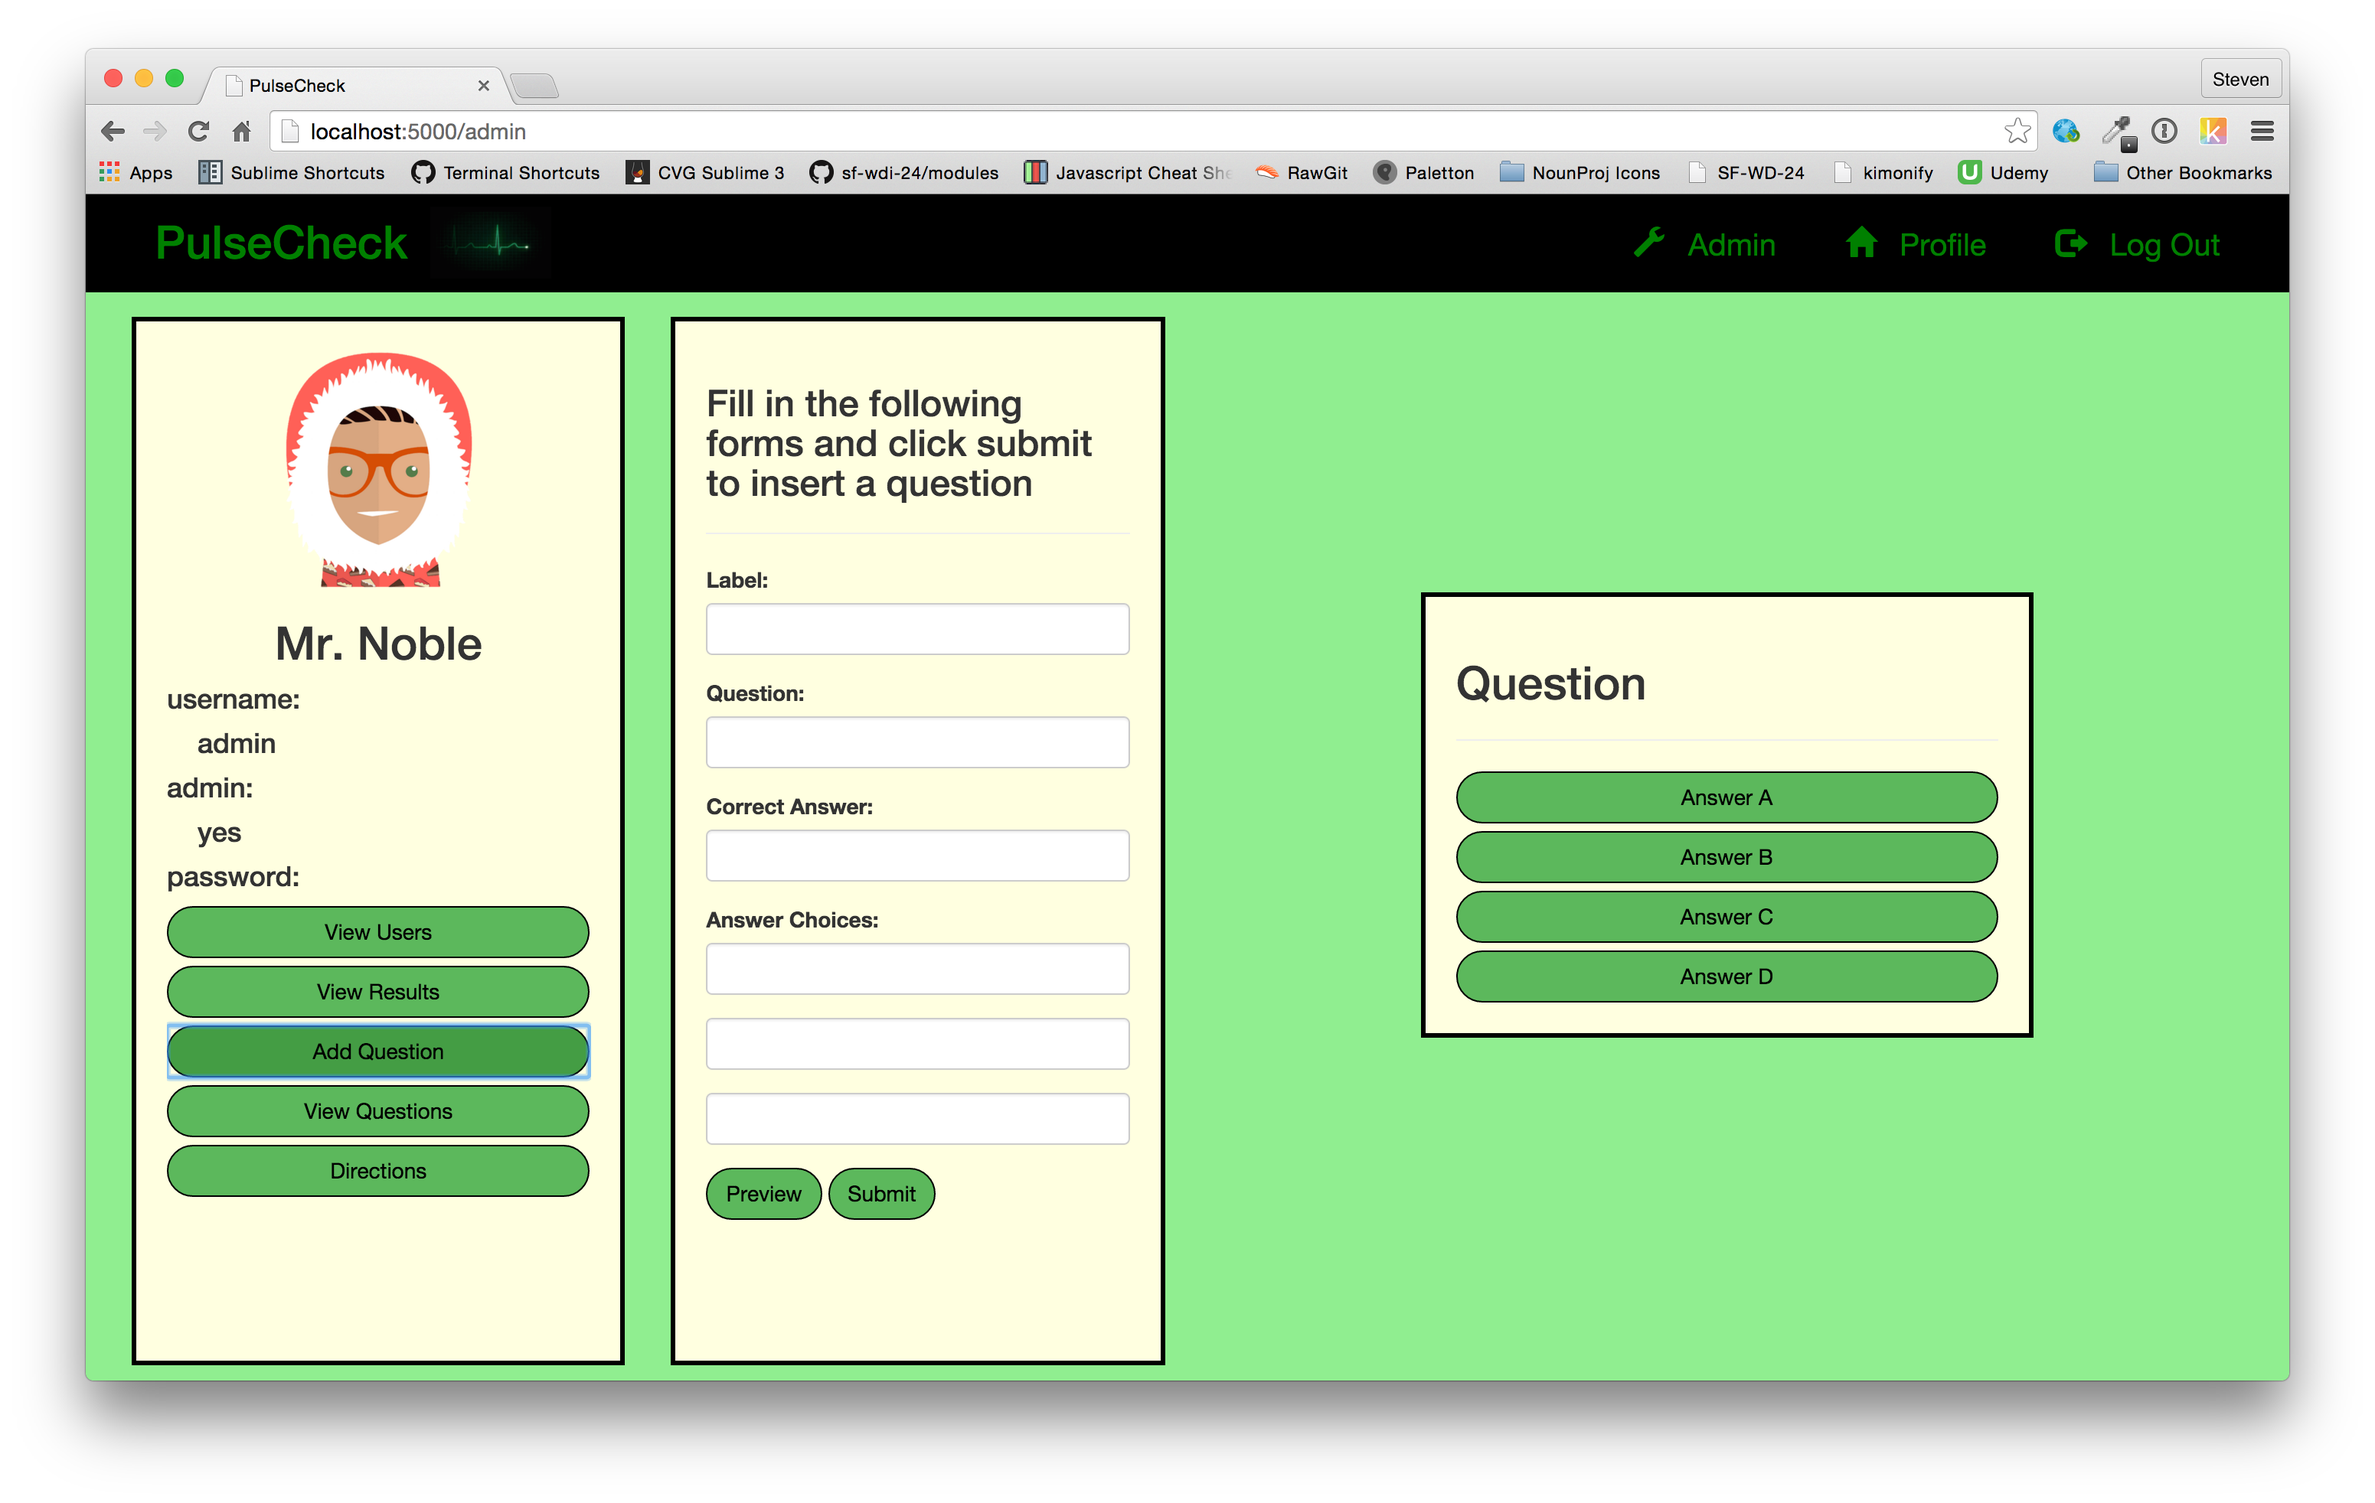
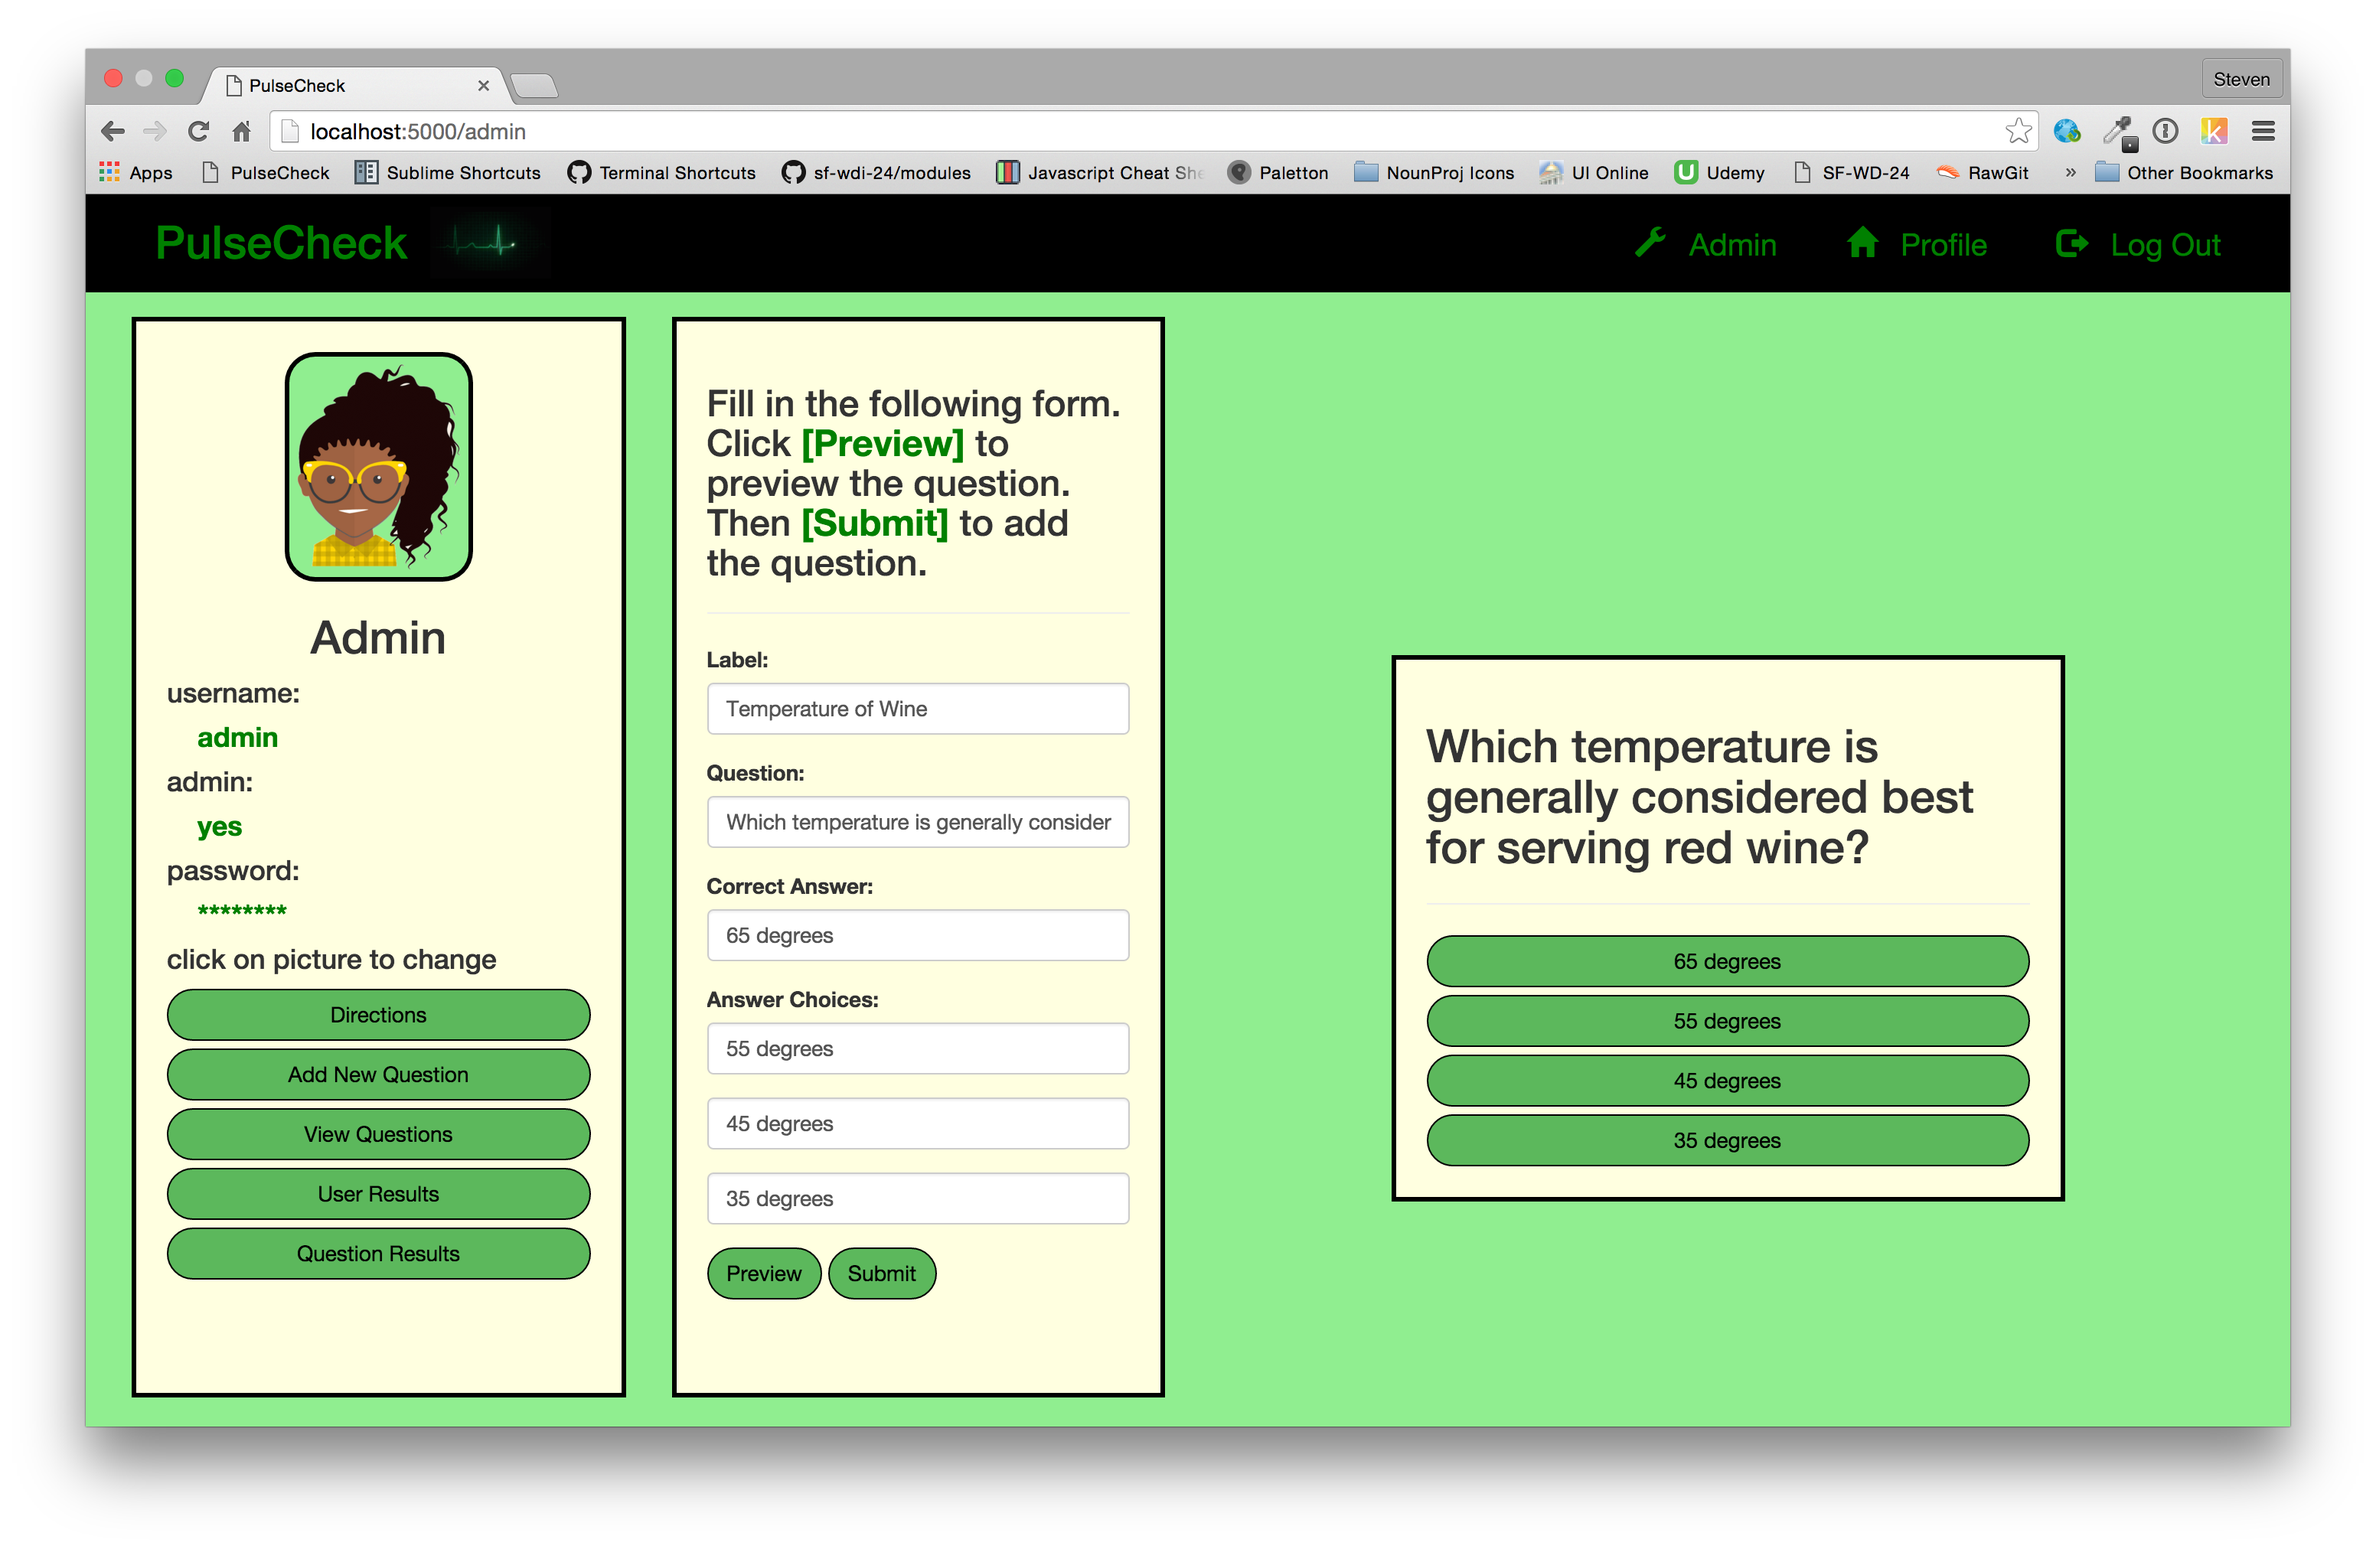
fix charts, update about page

diff --git a/public/scripts/admin.js b/public/scripts/admin.js
@@ -7,6 +7,7 @@ var $avatar = $('.avatar'),
 		$centerBox2 = $('.center-box-2'),
 		$centerBox3 = $('.center-box-3'),
 		$centerBox4 = $('.center-box-4'),
+		$navbar = $('.navbar'),
 		$scroll = $('.scroll'),
 		$window = $(window);
 
@@ -87,10 +88,14 @@ var userListSource = $userListTemplate.html(),
 		userResultsSource = $userResultsTemplate.html(),
 		userResultsTemplate = Handlebars.compile(userResultsSource);
 
+// Chartjs global attributes
+Chart.defaults.global.animationSteps = 60;
+
 // Global variables
 var questionArray = []; // Array for questions to be displayed to students
 var index = 0;
 var ctx;
+var pieChart;
 
 // Add all questions to the questionArray and filter out questions which are not to be shown
 $.get(questionUrl, function(data) {
@@ -113,7 +118,7 @@ $viewUsersBtn.on('click', openUserPane);
 
 // Event handlers for [Add Question]
 $previewQuestionBtn.on('click', previewQuestion);
-$submitQuestionBtn.on('click', submitQuestion);
+$submitQuestionBtn.on('submit', submitQuestion);
 
 // Event handlers for [View Questions]
 $addQuestionListResults.on('click', '.click-to-select', selectQuestion);
@@ -132,16 +137,17 @@ calculateHeight();
 function calculateHeight() {
 	var height = $window.height();
 	var width = $window.width();
+	var navbarHeight = $navbar.height();
 	var boxHeight = $centerBox.height();
 	var boxHeight2 = $centerBox2.height();
 	var boxHeight3 = $centerBox3.height();
 	var boxHeight4 = $centerBox4.height();
-	$box.css('height', height - 90);
+	$box.css('height', height - navbarHeight - 36);
 	$scroll.css('height', height - 130);
-	$centerBox.css('margin-top', ((height - boxHeight - 150) / 2));	
-	$centerBox2.css('margin-top', ((height - boxHeight2 - 150) / 2));	
-	$centerBox3.css('margin-top', ((height - boxHeight3 - 150) / 2));	
-	$centerBox4.css('margin-top', ((height - boxHeight4 - 150) / 2));	
+	$centerBox.css('margin-top', ((height - boxHeight - navbarHeight - 36) / 2));	
+	$centerBox2.css('margin-top', ((height - boxHeight2 - navbarHeight - 36) / 2));	
+	$centerBox3.css('margin-top', ((height - boxHeight3 - navbarHeight - 36) / 2));	
+	$centerBox4.css('margin-top', ((height - boxHeight4 - navbarHeight - 36) / 2));	
 }
 
 // On click, changes the avatar image, but does not yet save to the database
@@ -150,6 +156,7 @@ function changeAvatar() {
 	avatarNumber = (avatarNumber + 1) % 20;
 	var avatarFile = 'avatars/avatar' + avatarNumber + '.png';
 	$avatar.attr('src', avatarFile);
+	console.log(avatarFile);
 	// Change avatar in the database
 	$.ajax({
 		type: 'PATCH',
@@ -168,7 +175,7 @@ function plotGraph(selectedQuestion, boxwidth) {
 	$breakdownPieChart.hide();
 	$breakdownPieChart.show();
 	// If canvas is bigger than the box-width, make the canvas smaller
-	if (boxwidth < 200) {
+	if ($breakdownPieChart.width() > boxwidth) {
 		$breakdownPieChart.attr('width', boxwidth);
 		$breakdownPieChart.attr('height', boxwidth);
 	}
@@ -212,7 +219,7 @@ function plotGraph(selectedQuestion, boxwidth) {
   }];
   var options;
 	// Create a pie chart using the data
-	var myPieChart = new Chart(ctx).Pie(data, options);
+	pieChart = new Chart(ctx).Pie(data, options);
 }
 
 // Plots the graph of the selected question
@@ -436,6 +443,7 @@ function gotoBreakdown() {
 function displayNextQuestion() {
 	$nextQuestion.hide();
 	$displayQuestionsCanvas.hide();
+	pieChart.destroy();
 	var $breakdownPieChart = $('.breakdown-pie-chart');
 	ctx.clearRect(0, 0, $breakdownPieChart.width(), $breakdownPieChart.height());
 	$calculateResultsToggle.show();
@@ -515,6 +523,10 @@ function loadUserInfo() {
 		var userResultsHtml = userResultsTemplate(dataToAppend);
 		$userIndividualResults.append(userResultsHtml);
 		var $breakdownPieChart = $('#breakdown-pie-chart');
+		if(pieChart) {
+			pieChart.destroy();
+		}
+		$breakdownPieChart.hide();
 		$breakdownPieChart.show();
 		var boxwidth = $userIndividualResults.width();
 		plotUserGraph(dataToAppend, boxwidth);
@@ -582,6 +594,10 @@ function loadQuestionInfo() {
 		var questionResultsHtml = questionResultsTemplate(questionInfo);
 		$questionIndividualResults.append(questionResultsHtml);
 		var $breakdownPieChart = $('#breakdown-pie-chart');
+		if(pieChart) {
+			pieChart.destroy();
+		}
+		$breakdownPieChart.hide();
 		$breakdownPieChart.show();
 		var boxwidth = $questionIndividualResults.width();
 		plotGraph(questionInfo, boxwidth);

diff --git a/public/scripts/userscripts.js b/public/scripts/userscripts.js
@@ -40,6 +40,7 @@ var $userAnswerQuestionsBtn = $('#user-answer-questions-btn'),
 var questionArray = [];
 var index = 0;
 var username = $username.text();
+var pieChart;
 
 //##############
 //# Handlebars #
@@ -88,12 +89,23 @@ function calculateHeight() {
 }
 
 // On click, changes the avatar image, but does not yet save to the database
+// On click, changes the avatar image, but does not yet save to the database
 function changeAvatar() {
 	var avatarNumber = Number($avatar.attr('src').slice(14).slice(0, -4));
 	avatarNumber = (avatarNumber + 1) % 20;
 	var avatarFile = 'avatars/avatar' + avatarNumber + '.png';
 	$avatar.attr('src', avatarFile);
-	// change avatar in the database
+	console.log(avatarFile);
+	// Change avatar in the database
+	$.ajax({
+		type: 'PATCH',
+		url: userUrl + 'self',
+		data: {avatar: avatarFile},
+		success: function(data) {
+			console.log(data);
+			console.log('changed avatar to', data.avatar);
+		}
+	});
 }
 
 //////////////////////////////////
@@ -147,21 +159,15 @@ function displayIndividualResults() {
 }
 
 function plotGraph(selectedQuestion) {
-	// 1. add canvas
-	// 2. add var $breakdownPieChart = $('#breakdown-pie-chart');
-	//    edit boxwidth = $ to measure the correct box width
-	// 3. add code below
-
 	var $breakdownPieChart = $('#breakdown-pie-chart');
 	$breakdownPieChart.hide();
 	$breakdownPieChart.show();
 	// If canvas is bigger than the box-width, make the canvas smaller
-	var boxwidth = $questionIndividualResults.width();
-	if (boxwidth < 400) {
-		$breakdownPieChart.attr('width', width);
-		$breakdownPieChart.attr('height', width);
+	var boxwidth = $userViewResultsList.width();
+	if (boxwidth < $breakdownPieChart.width()) {
+		$breakdownPieChart.attr('width', boxwidth);
+		$breakdownPieChart.attr('height', boxwidth);
 	}
-
 	// Get context with jQuery - using jQuery's .get() method.
 	var ctx = $breakdownPieChart.get(0).getContext("2d");
 	// Create an array for values and labels
@@ -181,7 +187,6 @@ function plotGraph(selectedQuestion) {
 	values.unshift(correctValue[0]);
 	var correctLabel = labels.splice(correctIndex, 1);
 	labels.unshift(correctLabel[0]);
-
 	// Add data and options
 	var data = [{
     value: values[0],
@@ -204,11 +209,9 @@ function plotGraph(selectedQuestion) {
     highlight: "#FFA7A7",
     label: labels[3]
   }];
-
   var options;
-
 	// Create a pie chart using the data
-	var myPieChart = new Chart(ctx).Pie(data, options);
+	pieChart = new Chart(ctx).Pie(data, options);
 }
 
 //////////////////////////////////////
@@ -240,6 +243,7 @@ function createQuestionArray() {
 				return true;
 			}
 		});
+		console.log('QUESTIONS', questionArray);
 		if (questionArray.length === 0) {
 			$questionResponse.text('You have answered all of the assigned questions. Please return to your profile to review your results.');
 			$nextQuestion.hide();

diff --git a/public/main.css b/public/main.css
@@ -24,6 +24,10 @@ hr.hr-avatar {
 	max-height: 200px;
 	margin-left: auto;
 	margin-right: auto;
+	padding: 5px;
+	border: 3px inset black;
+	border-radius: 20px;
+	background-color: lightgreen;
 }
 
 .tab {
@@ -140,7 +144,7 @@ hr.hr-avatar {
 .add-question-list, .breakdown, #user-question, #user-response,
 #display-questions-btn, .user-view-results-list,
 .user-answer-questions-list, #user-goto-questions-btn,
-#display-questions-canvas, #next-question {
+#display-questions-canvas, #next-question, .password-confirm {
 	display: none;
 }
 

diff --git a/server.js b/server.js
@@ -343,7 +343,7 @@ app.patch('/api/users/:id', function(req, res) {
 	console.log('req.user._id', req.user._id);
 	var id = req.params.id;
 	console.log('id', id);
-	if (userId === 'self') {
+	if (id === 'self') {
 		userId = req.user._id;
 	// This needs to be in here for information that we don't want the user to update
 	// Keeps the site more secure (better with findOne...)
